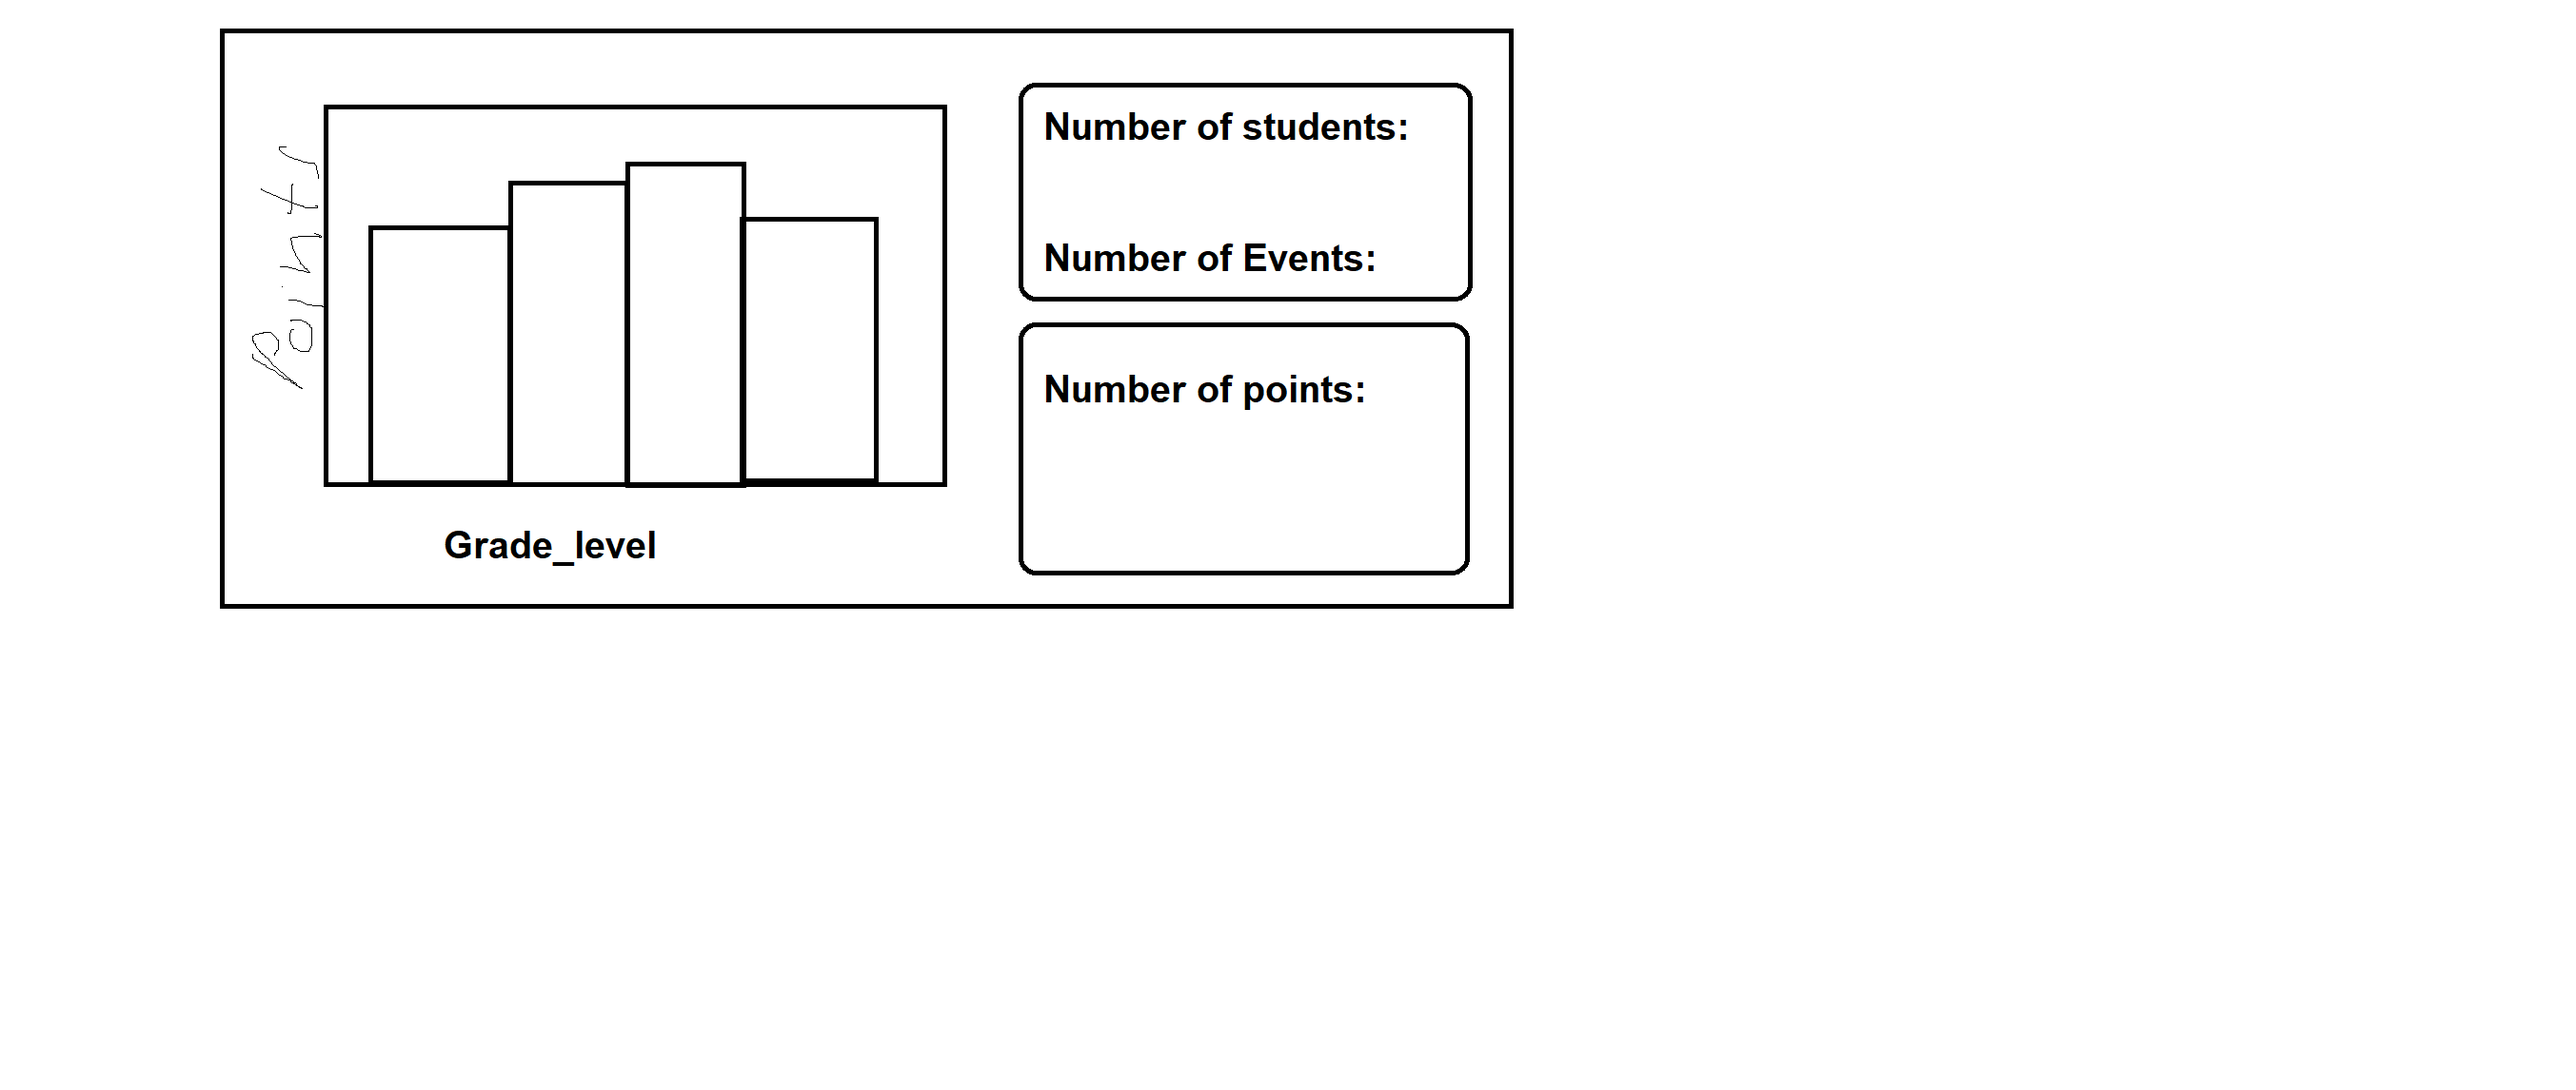
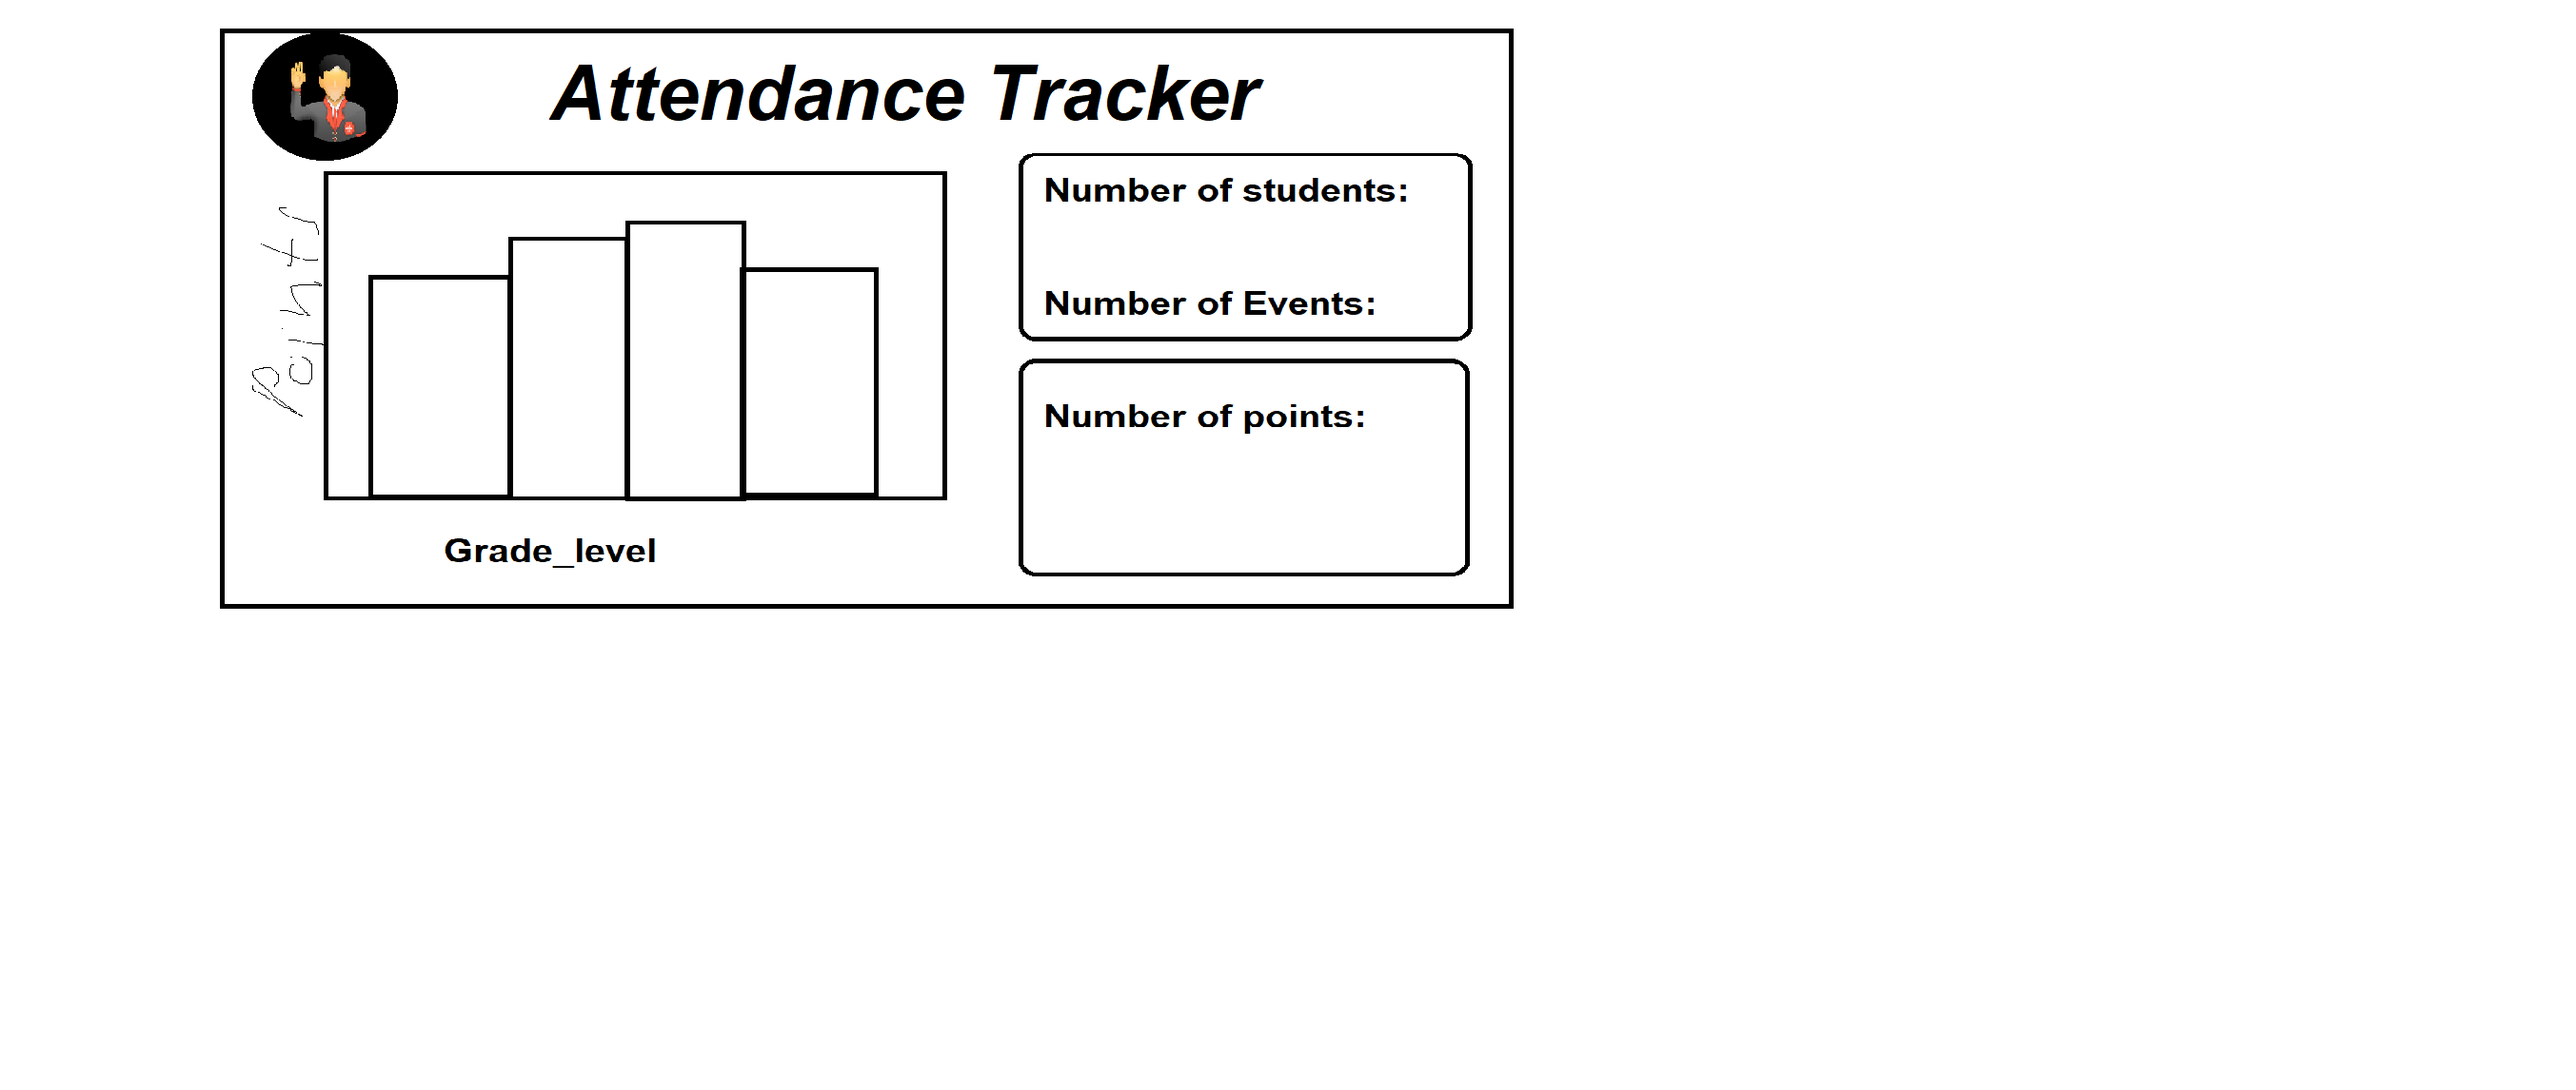
Added basic view of home, Will add logic and graph later on.
other minor changes.

diff --git a/gui_report.py b/gui_report.py
@@ -28,19 +28,23 @@ class ReportController:
     def add_prize(self):
         dialog_name = ct.CTkInputDialog(text="Name of Prize: ", title="Add a prize")
         name = dialog_name.get_input()
-        while not name.isalpha():
-            dialog_name = ct.CTkInputDialog(text="Name of Prize: ", title="Add a prize", entry_border_color='red')
-            name = dialog_name.get_input()
+        if name:
+            while not name.isalpha():
+                dialog_name = ct.CTkInputDialog(text="The Name may only include letters and spaces.\n\nName of Prize: ",
+                                                title="Add a prize", entry_border_color='red')
+                name = dialog_name.get_input()
 
-        dialog_points = ct.CTkInputDialog(text="Number of points required to get this prize: ", title="Add a prize")
-        points = dialog_points.get_input()
-        while not points.isdigit():
-            dialog_points = ct.CTkInputDialog(text="Number of points required to get this prize: ", title="Add a prize",
-                                              entry_border_color='red')
+            dialog_points = ct.CTkInputDialog(text="Number of points required to get this prize: ", title="Add a prize")
             points = dialog_points.get_input()
+            if points:
+                while not points.isdigit():
+                    dialog_points = ct.CTkInputDialog(text="Points may only include whole numbers.\n\nPoints required: "
+                                                      , title="Add a prize",
+                                                      entry_border_color='red')
+                    points = dialog_points.get_input()
 
-        prize_manager.add_prize(name, int(points))
-        self.update_table()
+                prize_manager.add_prize(name, int(points))
+                self.update_table()
 
     def delete_prize(self):
         selected = self.table.tree.selection()
@@ -81,7 +85,6 @@ class ReportController:
         self.prize_frame.points_entry.delete('0', 'end')
         self.prize_frame.points_entry.insert('end', prize.required_points)
 
-
     def right_arrow(self):
         report_manager.prev()
         self.update_display()
@@ -92,9 +95,11 @@ class ReportController:
 
     def end_quarter(self):
         dialog = ct.CTkInputDialog(text="Name of report: ", title="New report")
-        report_manager.create_report(dialog.get_input())
-        report_manager.idx = 0
-        self.update_display()
+        quarter_name = dialog.get_input()
+        if quarter_name:
+            report_manager.create_report(quarter_name)
+            report_manager.idx = 0
+            self.update_display()
 
     def create_pdf_report(self):
         report_manager.idx = 0
@@ -172,6 +177,7 @@ class ReportController:
         for error in errors:
             error_string += '\n' + error
         tk.messagebox.showerror("Error", "The following data entry errors occurred:" + error_string)
+
 
 class ReportFrame(ct.CTkFrame):
     def __init__(self, *args, **kwargs):

diff --git a/gui_home.py b/gui_home.py
@@ -1,0 +1,65 @@
+import customtkinter as ct
+from tkinter import ttk
+import tkinter as tk
+from student import student_manager
+from Events import event_manager
+from Report import report_manager, prize_manager
+from func_utils import limited_weight_cells, place_holder_bind_all, place_holder_bind_widget
+
+
+class HomeFrame(ct.CTkFrame):
+    def __init__(self, *args, **kwargs):
+        super().__init__(*args, **kwargs)
+        label = ct.CTkLabel(self, text='Attendance Tracker', font=('arial', 40, "bold", 'italic'))
+        label.grid(row=0, column=0, sticky='NEWS', padx=10, pady=20, columnspan=2)
+        graph = Graph(self, width=400)
+        graph.grid(row=1, column=0, sticky='NEWS', padx=10, pady=20, rowspan=2)
+        number_frame = NumberFrame(self)
+        number_frame.grid(row=1, column=1, sticky='NEWS', padx=10, pady=20)
+
+        points_frame = PointsFrame(self)
+        points_frame.grid(row=2, column=1, sticky='NEWS', padx=10, pady=20)
+
+        limited_weight_cells(self)
+
+
+class Graph(ct.CTkFrame):
+    def __init__(self, *args, **kwargs):
+        super().__init__(*args, **kwargs)
+
+
+class NumberFrame(ct.CTkFrame):
+    def __init__(self, *args, **kwargs):
+        super().__init__(*args, **kwargs)
+        student_label = ct.CTkLabel(self, text='\tNumber of Students:\t ', font=('arial', 20, 'bold'))
+        student_label.grid(row=0, column=0, sticky='NEWS', padx=5, pady=10)
+        self.students_number = ct.CTkLabel(self, text='9th Grade:\n10th Grade:\n11th Grade:\n12th Grade:',
+                                           font=('arial', 15, 'bold'), anchor='w')
+        self.students_number.grid(row=1, column=0, sticky='NEWS', padx=5, pady=0)
+
+        event_label = ct.CTkLabel(self, text='Number of Events:\t ', font=('arial', 20, 'bold'))
+        event_label.grid(row=2, column=0, sticky='NEWS', padx=5, pady=10)
+        self.events_number = ct.CTkLabel(self, text='Sport Events:\nNon-Sport Events:\n',
+                                         font=('arial', 15, 'bold'), anchor='w')
+        self.events_number.grid(row=3, column=0, sticky='NEWS', padx=5, pady=0)
+
+
+class PointsFrame(ct.CTkFrame):
+    def __init__(self, *args, **kwargs):
+        super().__init__(*args, **kwargs)
+        points_label = ct.CTkLabel(self, text='\nTotal points:', font=('arial', 20, 'bold'))
+        points_label.grid(row=0, column=0, sticky='NEWS', padx=5, pady=10)
+        self.points_number = ct.CTkLabel(self, text='0\n', font=('arial', 25, 'bold'))
+        self.points_number.grid(row=1, column=0, sticky='NEWS', padx=5, pady=0)
+
+
+if __name__ == '__main__':
+    ct.set_appearance_mode("dark")  # Modes: system (default), light, dark
+    ct.set_default_color_theme("dark-blue")
+    root = ct.CTk()
+
+    w = HomeFrame(root)
+    w.grid(row=0, column=0, sticky='NEWS')
+    root.rowconfigure(0, weight=1)
+    root.columnconfigure(0, weight=1)
+    root.mainloop()

diff --git a/main.py b/main.py
@@ -3,8 +3,10 @@ import customtkinter as ct
 from gui_events import *
 from gui_students import *
 from gui_report import *
+from gui_home import HomeFrame
 import gui_students2 as s2
 import gui_help
+
 
 
 class App(customtkinter.CTk):
@@ -99,7 +101,7 @@ class NavigationFrameTop(customtkinter.CTkFrame):
         self.appearance_mode_menu.grid(row=0, column=6, padx=20, pady=20, sticky="s")
 
         # create home frame
-        self.home_frame = customtkinter.CTkFrame(self, corner_radius=0, fg_color="transparent")
+        self.home_frame = HomeFrame(self)
 
         # create second frame
         self.second_frame = s2.StudentsFrame(self)
@@ -218,7 +220,7 @@ class NavigationFrame(customtkinter.CTkFrame):
         self.appearance_mode_menu.grid(row=7, column=0, padx=20, pady=20, sticky="s")
 
         # create home frame
-        self.home_frame = customtkinter.CTkFrame(self, corner_radius=0, fg_color="transparent")
+        self.home_frame = HomeFrame(self)
 
         # create second frame
         self.second_frame = s2.StudentsFrame(self)
